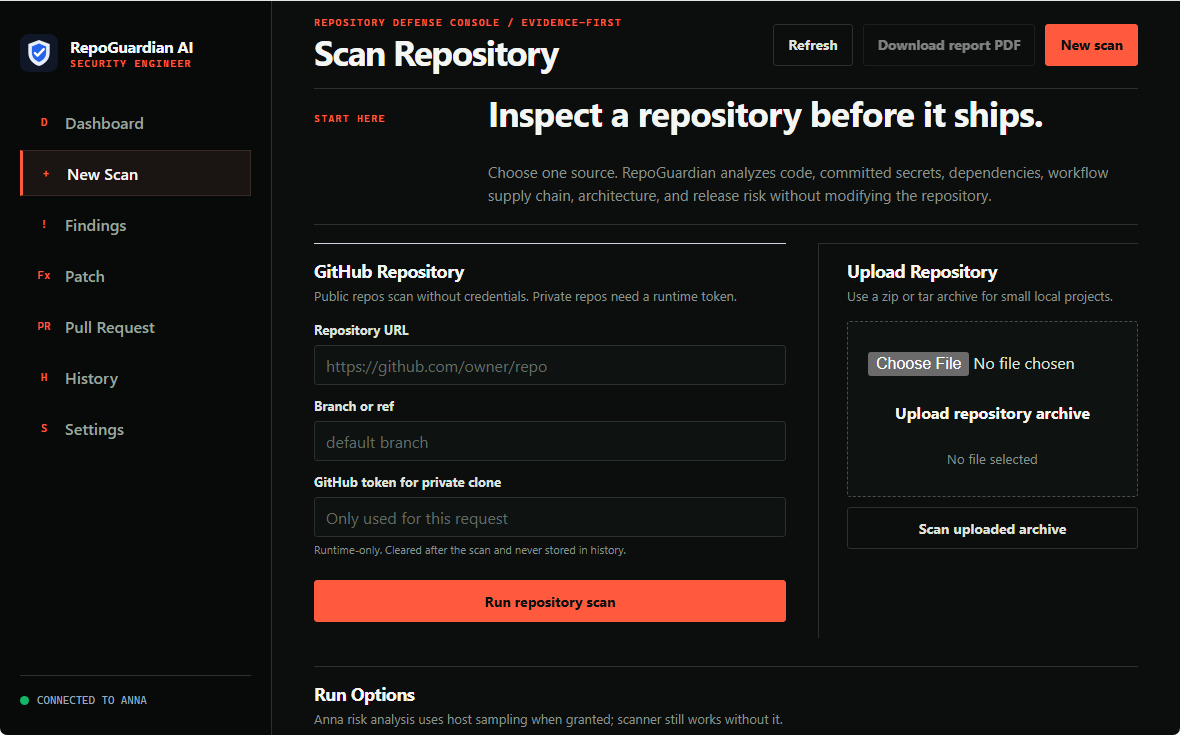
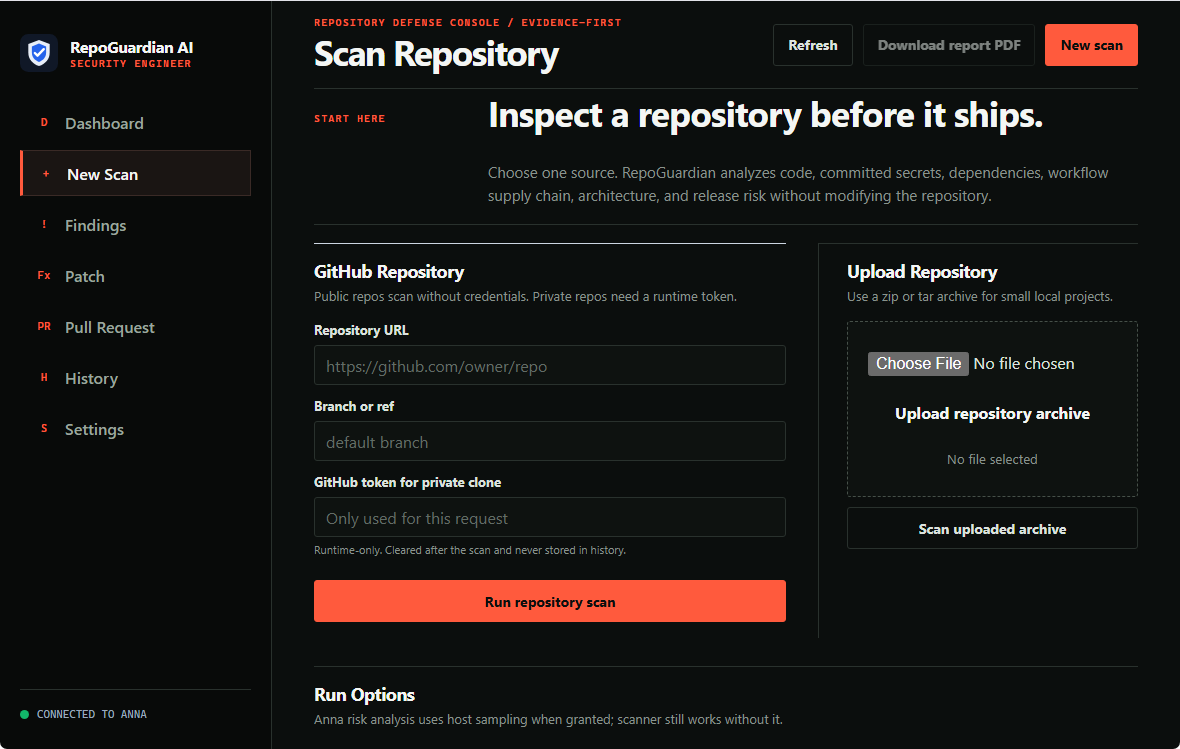
Finalize RepoGuardian release verification assets

diff --git a/examples/anna-app-repoguardian-ai/tests/bundle/app.spec.ts b/examples/anna-app-repoguardian-ai/tests/bundle/app.spec.ts
@@ -2,10 +2,21 @@ import { describe, expect, it } from "vitest";
 import { readFileSync } from "node:fs";
 import { join } from "node:path";
 import manifest from "../../manifest.json" with { type: "json" };
+import appMeta from "../../app.json" with { type: "json" };
+import packageMeta from "../../package.json" with { type: "json" };
 
 const root = join(__dirname, "..", "..");
 
 describe("repoguardian-ai manifest and bundle", () => {
+  it("aligns release versions, bundled tool, and Marketplace assets", () => {
+    expect(appMeta.version).toBe("0.2.0");
+    expect(packageMeta.version).toBe(appMeta.version);
+    expect(manifest.required_executas[0].min_version).toBe("0.2.0");
+    expect(appMeta.bundled_executas["repoguardian-scanner"].path).toBe("./executas/repoguardian-scanner");
+    expect(appMeta.screenshots).toHaveLength(3);
+    expect(appMeta.screenshots.every((url) => url.startsWith("https://raw.githubusercontent.com/"))).toBe(true);
+  });
+
   it("declares only the host APIs used by the bundle", () => {
     expect(manifest.schema).toBe(2);
     expect(manifest.permissions).toEqual(

diff --git a/examples/anna-app-repoguardian-ai/anna-skill.md b/examples/anna-app-repoguardian-ai/anna-skill.md
@@ -96,5 +96,6 @@ After cutting, install the exact new version on an online Anna Agent, save its p
 - App Store shows `v—`: align `app.json`, package metadata, cut version, and listing sync; a draft push alone is not a published/cut version.
 - Screenshot review fails: publish clear English screenshots from the real app state, use a stable raw URL, and ensure the main CTA appears in the first standard viewport.
 - CLI shell variable failure in PowerShell: use `$ANNA_HOST`, never reserved `$Host`.
+- `Assertion failed: !(handle->flags & UV_HANDLE_CLOSING)` from `apps push --dry-run` on Windows: this was reproduced with Anna CLI `0.1.49` on Node `24.14.1`; the identical dry-run completed under Node `22.23.2`. Run the release CLI with a supported Node 22 runtime (for example `npx --yes node@22 <anna-cli-js> ...`) and keep the app test harness and publish dry-run as separate processes. Treat a clean Node 22 exit, strict validation, and the server's real push/cut response as the release evidence.
 
 Final rule: build and test locally, publish the Executa, push/cut the app, install and retest the exact cut, then submit review. Never assume one stage performed the next.
